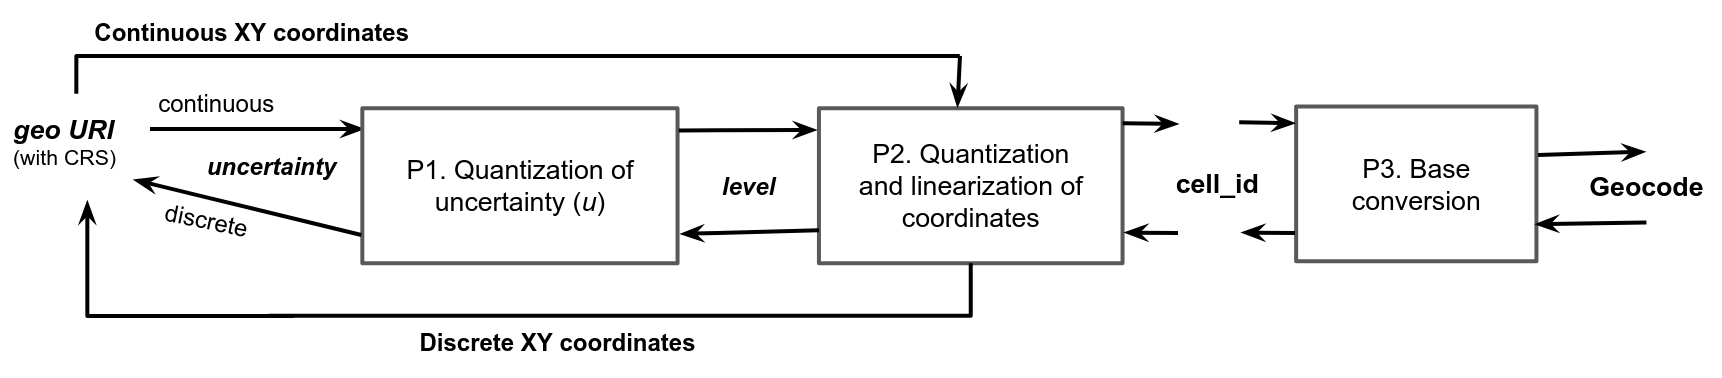
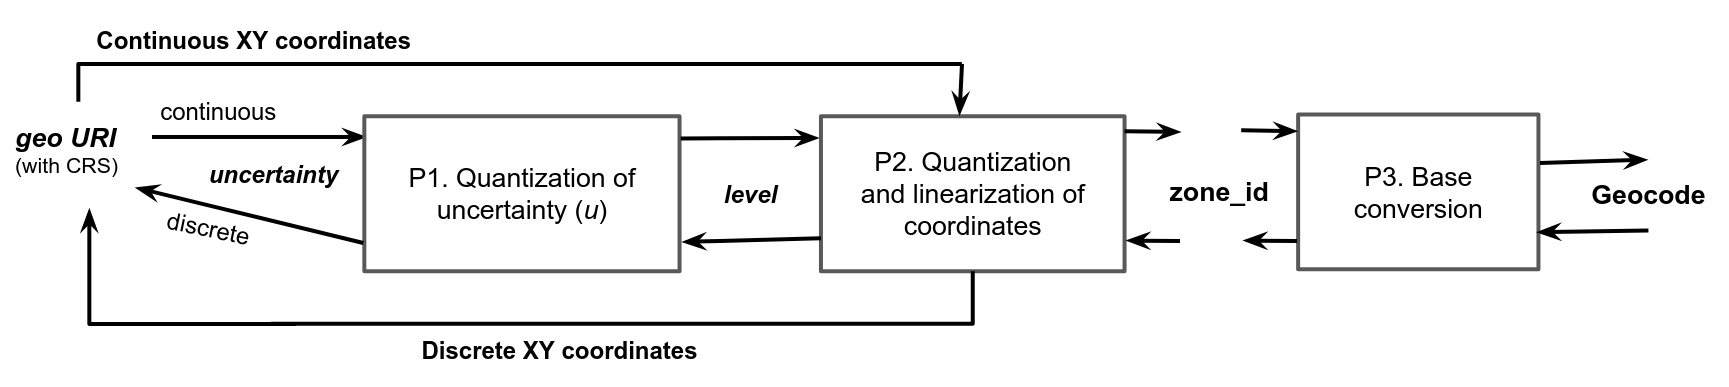
more images

diff --git a/README.md b/README.md
@@ -9,7 +9,7 @@ Although the grid domain is restricted to a national extent, **DGGS-4N ensures i
 
 On the technical side, DGGS-4N allows the use of the equal-area projections already officially adopted by each country, and of conventional GIS and geoprocessing platforms, including raster-based ones. In this sense, **DGGS-4N acts as a cultural enabler for DGGS**, paving the way for the future adoption of global grids.
 
-<img width="722" height="700" alt="image" src="https://github.com/user-attachments/assets/ea74c211-31d8-4947-80a4-26b69ed13064" />
+![](./assets/DGGS-compare4N.png)
 
 In the DGGS conceptual diagram shown above, only the entities highlighted in yellow were adapted to establish the **National Domain**. The key change is the replacement of the *global geometry* by a *national geometry*, formed by the level-0 cells covering the nation's jurisdictional boundaries in a projection chosen by the country itself. Replacing the globe with the nation breaks one of the theoretical and methodological foundations of DGGS. Remarkably, however, it leaves all the other conventions untouched (those not highlighted in yellow in the diagram), which fosters the development of a "DGGS culture" in situations where adopting a DGGS is not feasible.
 
@@ -17,9 +17,9 @@ The **DGGS-4N specification** adds the regulation of the geocode system associat
 
 ## Please contribute!
 You can post comments, suggestions, describe "bugs", etc.
-* Post your comments on the text of the draft: https://docs.google.com/document/d/1_HB6ZhGt98bDlon1_uSOSTPVvR5rrErxsKmEaDN5SgE/
-* or contribute on the rationale, https://github.com/AddressForAll/DGGS-4N/wiki
-* or issues https://github.com/AddressForAll/DGGS-4N/issues
+* Post your comments on the text of the draft: [link here](https://docs.google.com/document/d/1_HB6ZhGt98bDlon1_uSOSTPVvR5rrErxsKmEaDN5SgE/)
+* or contribute on the rationale, https://git.AddressForAll.org/DGGS-4N/wiki
+* or issues https://git.AddressForAll.org/DGGS-4N/issues
 
 ## Current specification metadata 
 * `title`: DGGS for Nations (DGGS‑4N)
